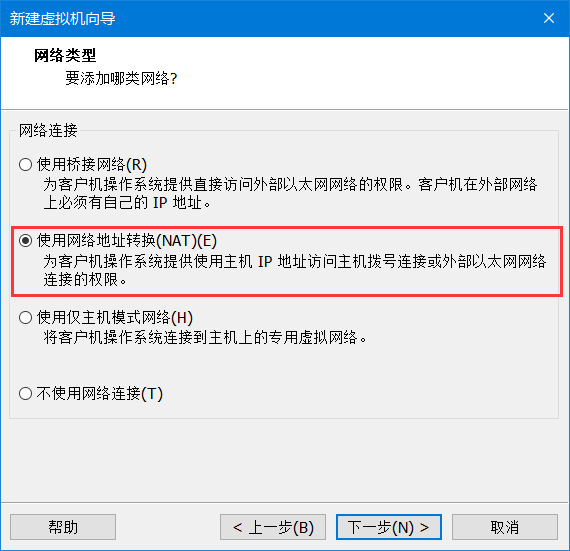
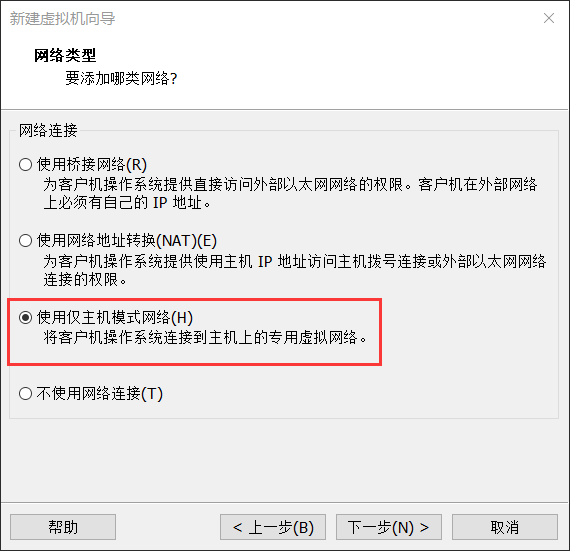
Site updated: 2019-03-07 13:21:48

Changed region(s): [[0.0, 0.0, 1.0, 1.0]]

diff --git a/2019/03/06/如何在虚拟机下安装Linux操作系统/index.html b/2019/03/06/如何在虚拟机下安装Linux操作系统/index.html
@@ -104,7 +104,24 @@
 <meta property="og:image" content="http://jiantajiyi.github.io/images/Install_Linux/15.png">
 <meta property="og:image" content="http://jiantajiyi.github.io/images/Install_Linux/16.png">
 <meta property="og:image" content="http://jiantajiyi.github.io/images/Install_Linux/17.png">
-<meta property="og:updated_time" content="2019-03-06T16:00:59.976Z">
+<meta property="og:image" content="http://jiantajiyi.github.io/images/Install_Linux/18.png">
+<meta property="og:image" content="http://jiantajiyi.github.io/images/Install_Linux/19.png">
+<meta property="og:image" content="http://jiantajiyi.github.io/images/Install_Linux/20.png">
+<meta property="og:image" content="http://jiantajiyi.github.io/images/Install_Linux/21.png">
+<meta property="og:image" content="http://jiantajiyi.github.io/images/Install_Linux/22.png">
+<meta property="og:image" content="http://jiantajiyi.github.io/images/Install_Linux/23.png">
+<meta property="og:image" content="http://jiantajiyi.github.io/images/Install_Linux/24.png">
+<meta property="og:image" content="http://jiantajiyi.github.io/images/Install_Linux/25.png">
+<meta property="og:image" content="http://jiantajiyi.github.io/images/Install_Linux/26.png">
+<meta property="og:image" content="http://jiantajiyi.github.io/images/Install_Linux/27.png">
+<meta property="og:image" content="http://jiantajiyi.github.io/images/Install_Linux/28.png">
+<meta property="og:image" content="http://jiantajiyi.github.io/images/Install_Linux/29.png">
+<meta property="og:image" content="http://jiantajiyi.github.io/images/Install_Linux/30.png">
+<meta property="og:image" content="http://jiantajiyi.github.io/images/Install_Linux/31.png">
+<meta property="og:image" content="http://jiantajiyi.github.io/images/Install_Linux/32.png">
+<meta property="og:image" content="http://jiantajiyi.github.io/images/Install_Linux/33.png">
+<meta property="og:image" content="http://jiantajiyi.github.io/images/Install_Linux/34.png">
+<meta property="og:updated_time" content="2019-03-07T05:16:39.046Z">
 <meta name="twitter:card" content="summary">
 <meta name="twitter:title" content="如何在虚拟机下安装Linux操作系统">
 <meta name="twitter:description" content="以下是安装红帽Linux的详细步骤">
@@ -375,7 +392,7 @@
 
       
         <script src="\assets\js\APlayer.min.js"> </script><p><center>以下是安装红帽Linux的详细步骤<center><br><a id="more"></a></center></center></p>
-<p> <strong><em>在VMware虚拟机下安装Red Hat Enterprise Linux 7</em></strong></p>
+<p> <strong><em>在VMware虚拟机下安装Red Hat Enterprise Linux 7</em></strong><br> <strong><em>前提条件</em></strong><br> <strong><em>1.Intel处理器的电脑需在BIOS中开启处理器虚拟化技术</em></strong><br> <strong><em>2.最好关闭不必要的安全软件，尤其是360（黑匣子事件）</em></strong><br> <strong><em>3.准备好所需的VMware软件和Linux的安装镜像</em></strong></p>
 <h1 id="第一步：新建虚拟机"><a href="#第一步：新建虚拟机" class="headerlink" title="第一步：新建虚拟机"></a>第一步：新建虚拟机</h1><h2 id="一-安装Vmware"><a href="#一-安装Vmware" class="headerlink" title="一.安装Vmware"></a>一.安装Vmware</h2><p>此处省略</p>
 <h2 id="二-新建Linux虚拟机"><a href="#二-新建Linux虚拟机" class="headerlink" title="二.新建Linux虚拟机"></a>二.新建Linux虚拟机</h2><ol>
 <li>准备Red Hat Enterprise Linux 7的镜像，可去红帽官网下载<br><a href="https://access.redhat.com/products/red-hat-enterprise-linux#getstarted" title="下载Linux" target="_blank" rel="external">下载Linux</a></li>
@@ -387,7 +404,7 @@
 <li>选择安装的位置，这里我选择的是<strong>D:\Vmware\redhat7</strong>，建议不要选择C盘<br><img src="/images/Install_Linux/06.png" alt=""></li>
 <li>处理器数量<strong>1</strong>，内核数量<strong>1</strong><br><img src="/images/Install_Linux/07.png" alt=""></li>
 <li>建议内存<strong>2G以上</strong>，如果自己笔记本内存较小的话，可以选择1GB足以。<br><img src="/images/Install_Linux/08.png" alt=""></li>
-<li>这里我选择的是<strong>NAT</strong>，也可以选择仅主机模式<br><img src="/images/Install_Linux/09.png" alt=""></li>
+<li>这里我们选择<strong>仅主机模式</strong><br><img src="/images/Install_Linux/09.png" alt=""></li>
 <li>选择<strong>推荐即可</strong><br><img src="/images/Install_Linux/10.png" alt=""></li>
 <li>选择<strong>SCSI</strong><br><img src="/images/Install_Linux/11.png" alt=""></li>
 <li>选择<strong>创建新虚拟磁盘</strong><br><img src="/images/Install_Linux/12.png" alt=""></li>
@@ -398,7 +415,24 @@
 <li>选择<strong>使用ISO镜像文件</strong>，选择下载好的镜像文件即可，点击<strong>确定</strong>，至此<strong>创建Linux虚拟机的工作已全部完成</strong>，接下来是安装Linux的步骤<br><img src="/images/Install_Linux/17.png" alt=""></li>
 </ol>
 <h1 id="第二步：安装Linux"><a href="#第二步：安装Linux" class="headerlink" title="第二步：安装Linux"></a>第二步：安装Linux</h1><ol>
-<li>点击开启此虚拟机</li>
+<li>点击<strong>开启此虚拟机</strong><br><img src="/images/Install_Linux/18.png" alt=""></li>
+<li>鼠标点击到安装界面中（Ctrl+Alt可以将鼠标切换回系统），<strong>白字代表选中项</strong>，这里我们选择直接安装，也就是<strong>第一项</strong><br><img src="/images/Install_Linux/19.png" alt=""></li>
+<li>这里语言选择英文，有助于学习英语和<strong>避免后续中文乱码。</strong><br><img src="/images/Install_Linux/20.png" alt=""></li>
+<li>设置时间<br><img src="/images/Install_Linux/21.png" alt=""></li>
+<li>Asia，Shanghai，设置时间之后点击<strong>Done</strong><br><img src="/images/Install_Linux/22.png" alt=""></li>
+<li>选择<strong>SOFTWARE　SELECTION</strong>，进行安装图形化界面<br><img src="/images/Install_Linux/23.png" alt=""></li>
+<li>左侧选择<strong>Server with GUI</strong>，右边选择<strong>KDE</strong>，点击<strong>Done</strong><br><img src="/images/Install_Linux/24.png" alt=""></li>
+<li>选择<strong>INSTALLATION DESTINATION</strong>，配置安装位置<br><img src="/images/Install_Linux/25.png" alt=""></li>
+<li>选择20G的虚拟磁盘，选择<strong>I will configure partitioning</strong>，手动配置分区，点击<strong>Done</strong><br><img src="/images/Install_Linux/26.png" alt=""></li>
+<li>这里我们选择<strong>Standard Partition</strong><br><img src="/images/Install_Linux/27.png" alt=""></li>
+<li>添加第一个boot分区，如图示，如果不能输入，请打开小键盘，这里我们给了2000M，点击<strong>Add mount point</strong><br><img src="/images/Install_Linux/28.png" alt=""></li>
+<li>以此添加图中的三个分区，swap交换分区大小最好是安装时给予内存的一半以上，完成点击<strong>Done</strong><br><img src="/images/Install_Linux/29.png" alt=""></li>
+<li>点击<strong>Accept Changes</strong><br><img src="/images/Install_Linux/30.png" alt=""></li>
+<li>配置完了，选择<strong>Begin Installation</strong><br><img src="/images/Install_Linux/31.png" alt=""></li>
+<li>接下来就是漫长的等待过程，此时我们可以配置root的密码，可以不用配置用户账户，会为我们自动生成一个redhat的普通用户<br><img src="/images/Install_Linux/32.png" alt=""></li>
+<li>密码最好8位以上，点击<strong>Done</strong>即可<br><img src="/images/Install_Linux/33.png" alt=""></li>
+<li>安装完成后，点击<strong>Reboot</strong><br><img src="/images/Install_Linux/34.png" alt=""></li>
+<li>同意许可，输入1,2,c,c,即可，每输入一次，按一次回车，等待重启即可进入界面</li>
 </ol>
 
       

diff --git a/css/main.css b/css/main.css
@@ -1830,7 +1830,7 @@ pre .javascript .function {
   width: 4px;
   height: 4px;
   border-radius: 50%;
-  background: #c6f9e0;
+  background: #a1450b;
 }
 .links-of-blogroll {
   font-size: 13px;
